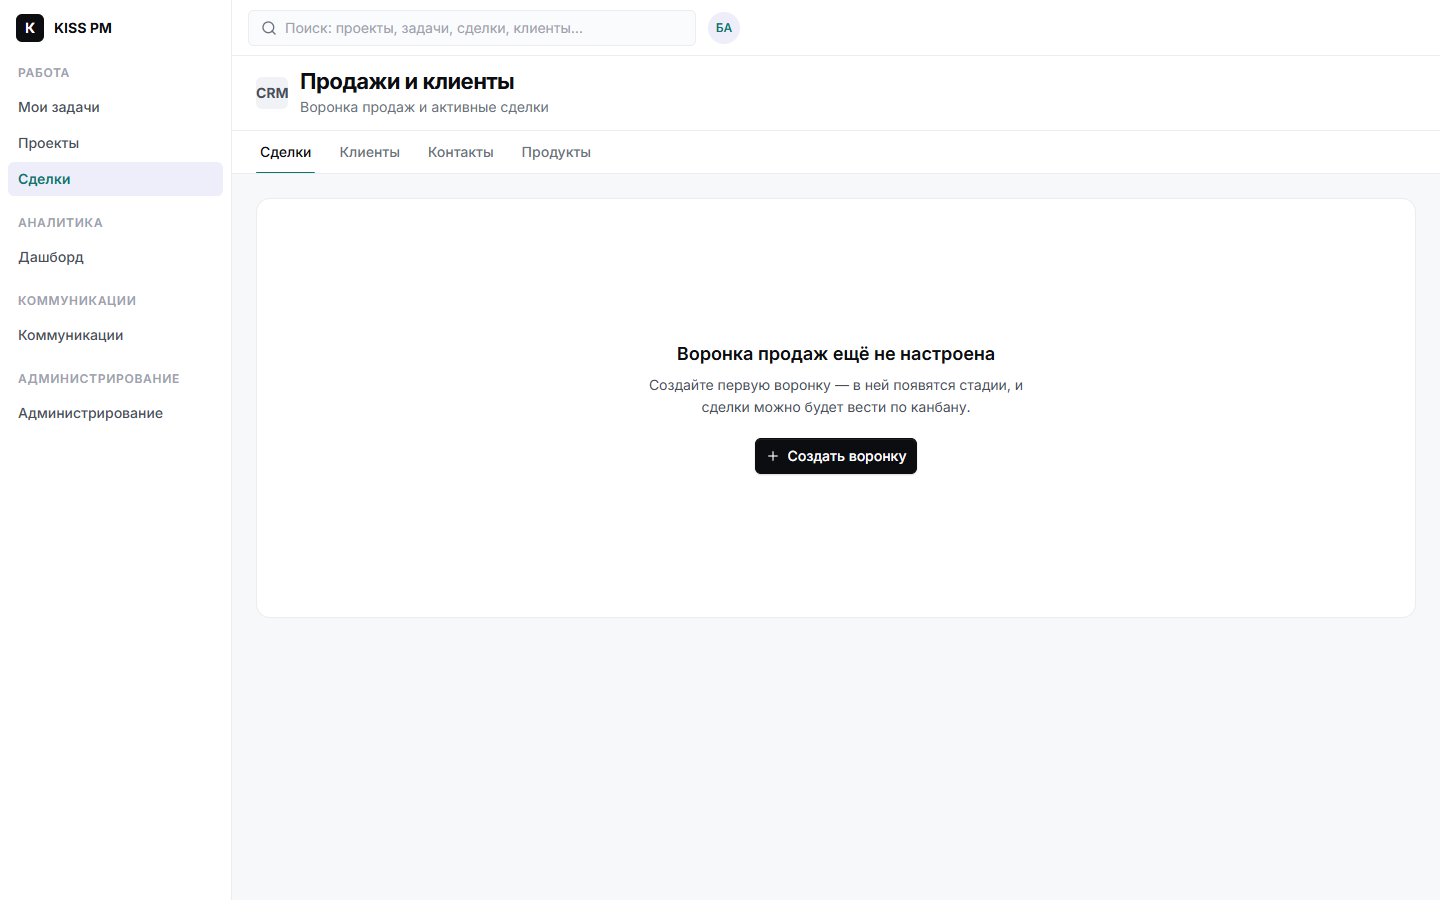
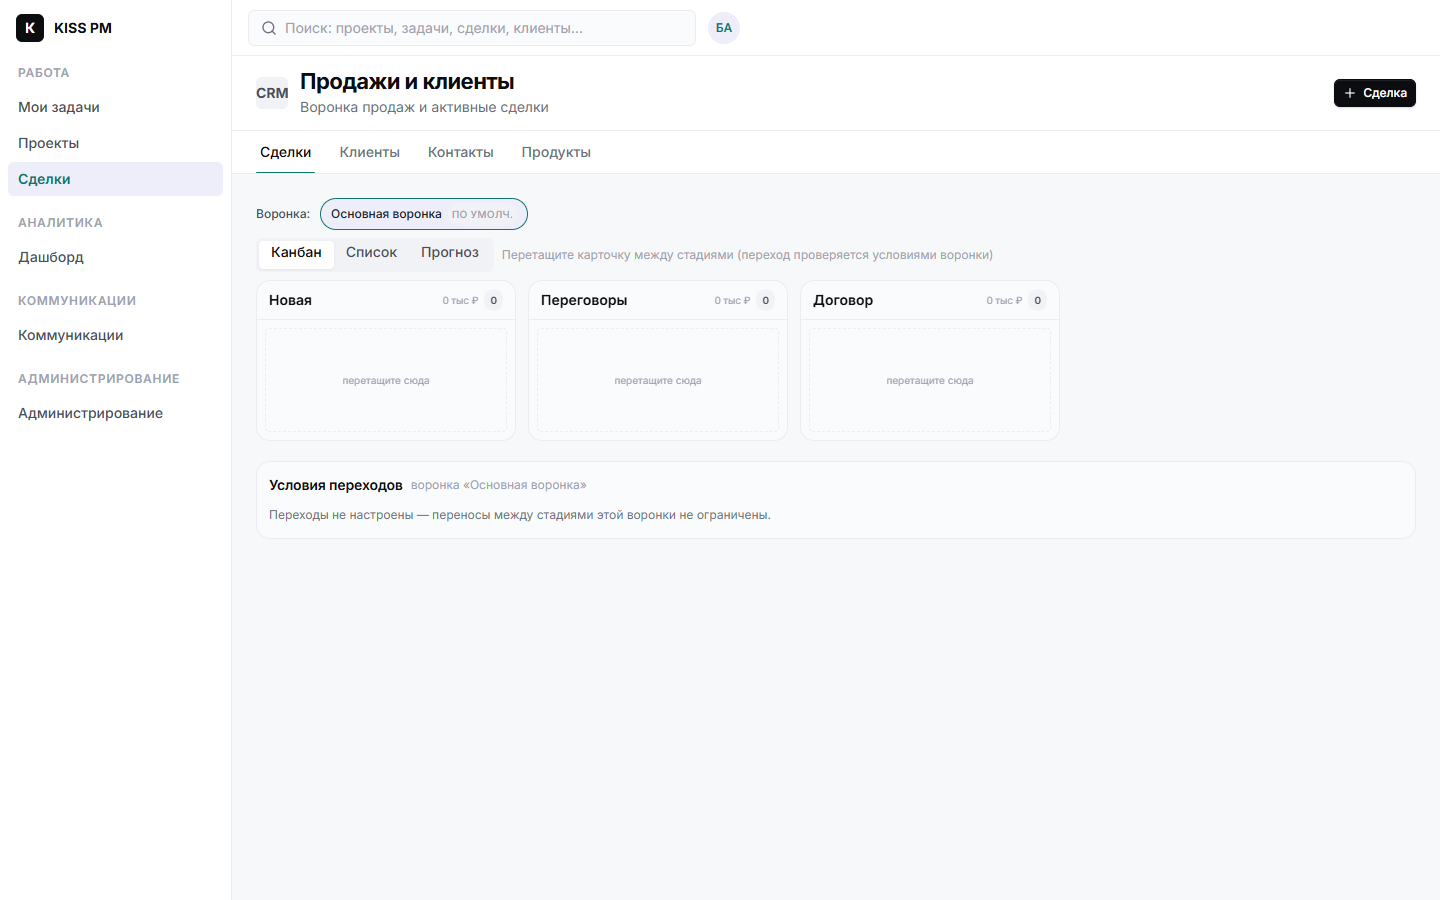
fix(review-2): права workspace_config открывают админку; бутстрап воронки создаёт стадии
По второму ревью Codex в PR #224:
1) ADMIN_PERMISSIONS (AdminFrame + пункт навигации) дополнены
tenant.workspace_config.read/manage — роль только с правами конфигурации
(вкладка «Безопасность») больше не упирается в «Администрирование недоступно».
2) CTA «Создать воронку» пустого тенанта создаёт воронку СО стадиями
(Новая → Переговоры → Договор): воронка без стадий давала те же пустые
колонки и тупиковую модалку. В crm-client добавлен createDealStage
(POST /api/workspace/deal-stages).

Проверки: tsc чистый; vitest 911 pass / 3 pre-existing agentExecute;
live E2E: клик CTA под Beta → канбан с тремя стадиями и рабочей «+ Сделка»
(скриншот fix-review2-pipeline-bootstrap.png); p1 10/10, p2 10/10, sweep 17/17.

Claude-Session: https://claude.ai/code/session_01LGgDBEpxSdEnRdDrAWZWhF

diff --git a/apps/web/src/crm/deals/deals-surface.tsx b/apps/web/src/crm/deals/deals-surface.tsx
@@ -67,7 +67,8 @@ function DialogError({ text }: { text: string | null }) {
 
 export function ProjectDeals() {
   const { live } = useCrmRuntime();
-  const { data, status, error, reload, moveStage, movePipeline, createOpportunity, createPipeline } = useCrm();
+  const crm = useCrm();
+  const { data, status, error, reload, moveStage, movePipeline, createOpportunity } = crm;
   const users = useCrmUsers();
   const [mode, setMode] = useState<Mode>("kanban");
   const [pipelineId, setPipelineId] = useState<string | null>(null);
@@ -157,12 +158,24 @@ export function ProjectDeals() {
 
   // Онбординг пустого тенанта (G4-09): воронок ещё нет — вместо пустого канбана
   // предлагаем создать первую воронку прямо отсюда.
+  // Вместе со стадиями: воронка без стадий — те же пустые колонки и тупиковая
+  // модалка сделки (ревью PR #224).
   async function createDefaultPipeline() {
     setBusy(true);
-    const res = await createPipeline({ name: "Основная воронка", sortOrder: 1, isDefault: true });
-    setBusy(false);
-    if (res.ok) { toast.success("Воронка «Основная воронка» создана"); void reload(); }
-    else toast.error(`Отклонено: ${ruErr(res.code, res.message)}`);
+    try {
+      const { pipeline } = await crm.client.createPipeline({ name: "Основная воронка", sortOrder: 1, isDefault: true });
+      const defaultStages = ["Новая", "Переговоры", "Договор"];
+      for (const [i, name] of defaultStages.entries()) {
+        await crm.client.createDealStage({ name, sortOrder: i + 1, pipelineId: pipeline.id });
+      }
+      toast.success(`Воронка «${pipeline.name}» создана: стадии ${defaultStages.join(" → ")}`);
+      void reload();
+    } catch (e) {
+      const err = e as { code?: string; message?: string };
+      toast.error(`Отклонено: ${ruErr(err.code, err.message)}`);
+    } finally {
+      setBusy(false);
+    }
   }
 
   if (model.pipelines.length === 0) {

diff --git a/apps/web/src/admin/ui/admin-frame.tsx b/apps/web/src/admin/ui/admin-frame.tsx
@@ -30,7 +30,11 @@ const ADMIN_PERMISSIONS = [
   "tenant.access_profiles.manage",
   "tenant.users.read",
   "tenant.users.manage",
-  "tenant.audit.read"
+  "tenant.audit.read",
+  // Вкладка «Безопасность» живёт на правах конфигурации воркспейса — роль
+  // только с ними тоже должна попадать в админку (ревью PR #224).
+  "tenant.workspace_config.read",
+  "tenant.workspace_config.manage"
 ];
 
 export function AdminFrame({

diff --git a/apps/web/src/crm/lib/crm-client.ts b/apps/web/src/crm/lib/crm-client.ts
@@ -181,6 +181,8 @@ export function createCrmClient(options: CrmApiClientOptions) {
     // мультиворонки (pipelines + stage-transitions + cross-pipeline move)
     listPipelines() { return requestJson<{ pipelines: Pipeline[] }>("/api/workspace/pipelines"); },
     createPipeline(input: { name: string; sortOrder: number; description?: string | null; isDefault?: boolean; status?: CrmStatus }) { return requestJson<{ pipeline: Pipeline }>("/api/workspace/pipelines", { method: "POST", body: JSON.stringify(input) }); },
+    // Стадия сделки (POST /deal-stages): нужна бутстрапу первой воронки — воронка без стадий неюзабельна.
+    createDealStage(input: { name: string; sortOrder: number; pipelineId?: string | null; status?: CrmStatus }) { return requestJson<{ dealStage: DealStage }>("/api/workspace/deal-stages", { method: "POST", body: JSON.stringify(input) }); },
     updatePipeline(pipelineId: string, input: { name: string; sortOrder: number; description?: string | null; isDefault?: boolean; status?: CrmStatus }) { return requestJson<{ pipeline: Pipeline }>(`/api/workspace/pipelines/${enc(pipelineId)}`, { method: "PATCH", body: JSON.stringify(input) }); },
     listStageTransitions(pipelineId: string) { return requestJson<{ stageTransitions: StageTransition[] }>(`/api/workspace/pipelines/${enc(pipelineId)}/stage-transitions`); },
     createStageTransition(pipelineId: string, input: { fromStageId: string; toStageId: string; requireFeasibilityOk?: boolean; minProbability?: number | null; guardNote?: string | null }) { return requestJson<{ stageTransition: StageTransition }>(`/api/workspace/pipelines/${enc(pipelineId)}/stage-transitions`, { method: "POST", body: JSON.stringify(input) }); },

diff --git a/apps/web/src/delivery/ui/workspace-shell.tsx b/apps/web/src/delivery/ui/workspace-shell.tsx
@@ -23,7 +23,7 @@ const NAV: { title: string; items: NavItem[] }[] = [
   },
   { title: "Аналитика", items: [{ label: "Дашборд", href: "/dashboard", requires: ["tenant.projects.read", "tenant.opportunities.read"] }] },
   { title: "Коммуникации", items: [{ label: "Коммуникации", href: "/communications/chat", requires: ["tenant.communications.read"] }] },
-  { title: "Администрирование", items: [{ label: "Администрирование", href: "/admin", requires: ["tenant.access_profiles.read", "tenant.access_profiles.manage", "tenant.users.read", "tenant.users.manage", "tenant.audit.read"] }] }
+  { title: "Администрирование", items: [{ label: "Администрирование", href: "/admin", requires: ["tenant.access_profiles.read", "tenant.access_profiles.manage", "tenant.users.read", "tenant.users.manage", "tenant.audit.read", "tenant.workspace_config.read", "tenant.workspace_config.manage"] }] }
 ];
 
 /**